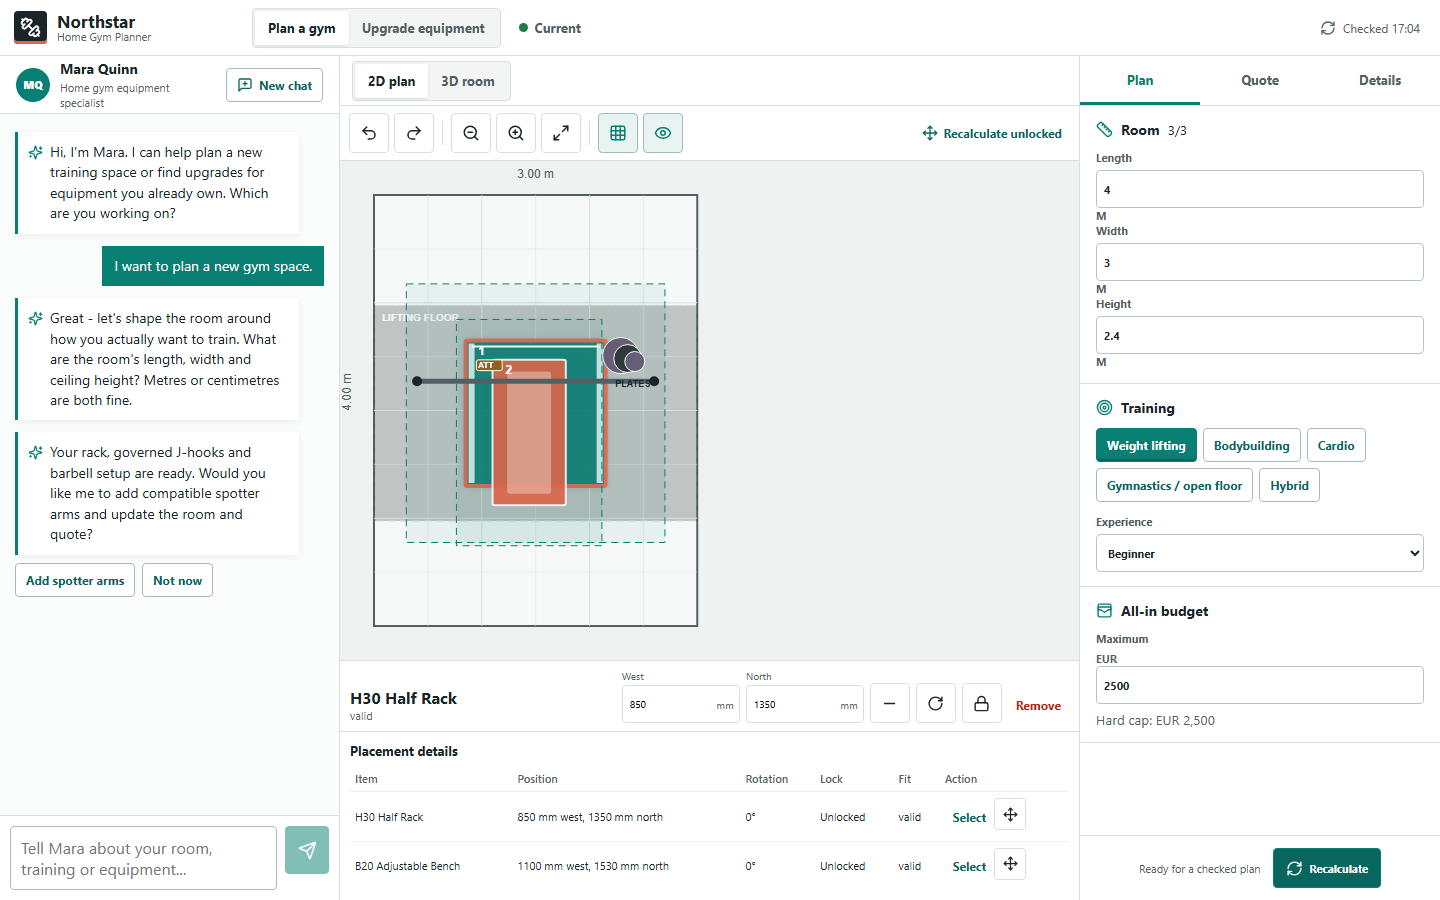
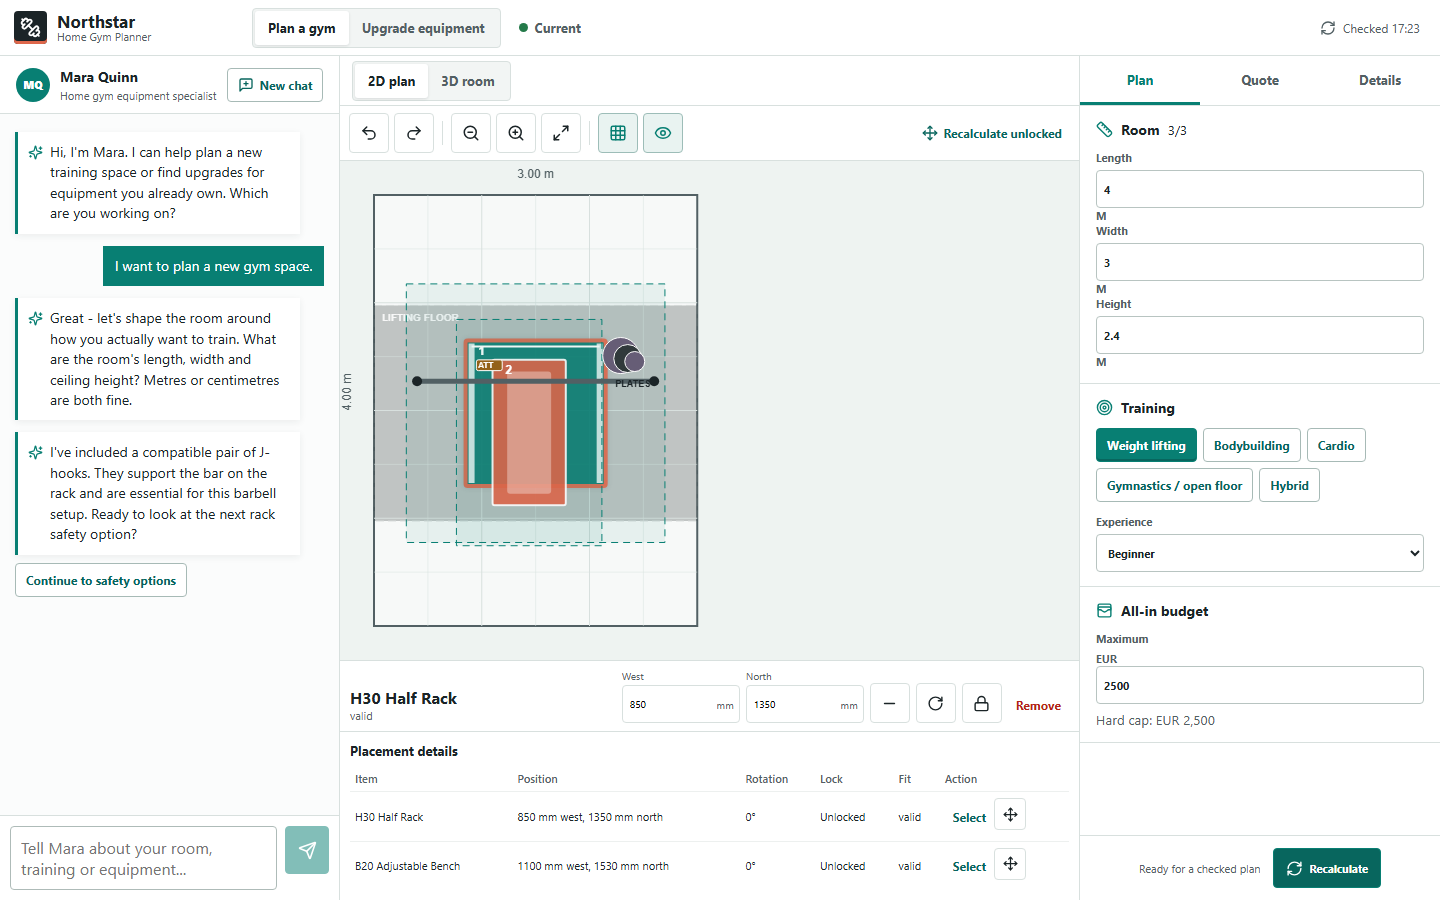
Refine rack safety flow and 3D accessories

Changed region(s): [[0.0, 0.4978, 0.1875, 0.6533], [0.0312, 0.0622, 0.2188, 0.1244], [0.0625, 0.28, 0.2188, 0.3111]]

diff --git a/v2-founder-led/app/src/components/Room3D.tsx b/v2-founder-led/app/src/components/Room3D.tsx
@@ -64,7 +64,7 @@ export function Room3D({ state, catalogue, selectedId, onSelect, onReturn2D }: P
       scene.add(object); selectable.push(object);
     }
     for (const item of deriveVisualInventory(state, catalogue)) {
-      const object = visualInventoryObject(item, selectedId === item.variant.variantId);
+      const object = visualInventoryObject(item, selectedId === item.variant.variantId, catalogue);
       object.userData.variantId = item.variant.variantId;
       object.traverse((child) => { child.userData.variantId = item.variant.variantId; });
       scene.add(object); selectable.push(object);
@@ -129,10 +129,16 @@ function equipmentObject(variant: Variant, placement: Placement, selected: boole
   const colour = selected ? "#de674b" : categoryColour[variant.category];
   if (variant.category === "rack") {
     const upright = .055; const y = height / 2;
-    [[upright, y, upright], [width - upright, y, upright], [upright, y, depth - upright], [width - upright, y, depth - upright]].forEach(([x, py, z]) => { const post = box(.06, height, .06, colour, .68); post.position.set(x, py, z); group.add(post); });
-    const topFront = box(width, .055, .055, colour, .68); topFront.position.set(width / 2, height - .04, .04); group.add(topFront);
-    const topRear = topFront.clone(); topRear.position.z = depth - .04; group.add(topRear);
-    const side = box(.055, .055, depth, colour, .68); side.position.set(.04, height - .04, depth / 2); group.add(side); const side2 = side.clone(); side2.position.x = width - .04; group.add(side2);
+    const twoPost = ["s-series", "f-series"].includes(variant.familyId);
+    const postPositions = twoPost
+      ? [[upright, y, depth - upright], [width - upright, y, depth - upright]]
+      : [[upright, y, upright], [width - upright, y, upright], [upright, y, depth - upright], [width - upright, y, depth - upright]];
+    postPositions.forEach(([x, py, z]) => { const post = box(.06, height, .06, colour, .68); post.position.set(x, py, z); group.add(post); });
+    const topRear = box(width, .055, .055, colour, .68); topRear.position.set(width / 2, height - .04, depth - .04); group.add(topRear);
+    if (!twoPost) {
+      const topFront = topRear.clone(); topFront.position.z = .04; group.add(topFront);
+      const side = box(.055, .055, depth, colour, .68); side.position.set(.04, height - .04, depth / 2); group.add(side); const side2 = side.clone(); side2.position.x = width - .04; group.add(side2);
+    }
   } else if (variant.category === "bench") {
     const pad = box(width * .72, .11, depth * .92, colour); pad.position.set(width / 2, height * .82, depth / 2); group.add(pad);
     const frame = box(.08, height * .72, depth * .65, "#313a3c", .55); frame.position.set(width / 2, height * .38, depth / 2); group.add(frame);
@@ -148,8 +154,18 @@ function equipmentObject(variant: Variant, placement: Placement, selected: boole
   } else if (["dumbbells", "kettlebell"].includes(variant.category)) {
     for (let index = 0; index < 4; index += 1) { const weight = box(width * .17, Math.min(.28, height), depth * .24, colour, .45); weight.position.set(width * (.18 + index * .21), Math.min(.16, height / 2), depth / 2); group.add(weight); }
   } else if (variant.category === "storage") {
-    const frame = box(width, height, depth, colour, .35); group.add(frame); frame.position.set(width / 2, height / 2, depth / 2);
-    const cut = box(width * .86, height * .72, depth * 1.02, "#f7f9f8"); cut.position.set(width / 2, height * .53, depth / 2); group.add(cut);
+    if (variant.variantId === "st10-storage-vertical") {
+      const baseX = box(width * .92, .06, .09, "#30393b", .6); baseX.position.set(width / 2, .03, depth / 2); group.add(baseX);
+      const baseZ = box(.09, .06, depth * .92, "#30393b", .6); baseZ.position.set(width / 2, .03, depth / 2); group.add(baseZ);
+      const upright = box(.09, height * .9, .09, colour, .68); upright.position.set(width / 2, height * .45 + .05, depth / 2); group.add(upright);
+      for (const y of [.55, .88, 1.16]) for (const side of [-1, 1]) {
+        const peg = new THREE.Mesh(new THREE.CylinderGeometry(.024, .024, width * .36, 16), new THREE.MeshStandardMaterial({ color: colour, roughness: .36, metalness: .7 }));
+        peg.rotation.z = Math.PI / 2; peg.position.set(width / 2 + side * width * .2, Math.min(y, height * .84), depth / 2); group.add(peg);
+      }
+    } else {
+      for (const x of [.045, width - .045]) for (const z of [.045, depth - .045]) { const post = box(.06, height, .06, colour, .55); post.position.set(x, height / 2, z); group.add(post); }
+      for (const y of [.08, height * .52, height - .08]) { const shelf = box(width, .06, depth, colour, .4); shelf.position.set(width / 2, y, depth / 2); group.add(shelf); }
+    }
   } else {
     const body = box(width, Math.max(.04, Math.min(height, .3)), depth, colour); body.position.set(width / 2, Math.max(.02, Math.min(height, .3) / 2), depth / 2); group.add(body);
   }
@@ -157,11 +173,15 @@ function equipmentObject(variant: Variant, placement: Placement, selected: boole
   return group;
 }
 
-function visualInventoryObject(item: VisualInventoryItem, selected: boolean) {
+function visualInventoryObject(item: VisualInventoryItem, selected: boolean, catalogue: Variant[]) {
   const group = new THREE.Group();
   const colour = selected ? "#de674b" : categoryColour[item.variant.category];
   const x = item.xMm / 1000;
   const z = item.zMm / 1000;
+  const parent = item.parentVariantId ? catalogue.find((variant) => variant.variantId === item.parentVariantId) : undefined;
+  const parentRotated = item.rotationDeg === 90;
+  const parentWidth = parent ? (parentRotated ? parent.geometry.lengthMm : parent.geometry.widthMm) / 1000 : 0;
+  const parentDepth = parent ? (parentRotated ? parent.geometry.widthMm : parent.geometry.lengthMm) / 1000 : 0;
 
   if (item.mode === "flooring") {
     const width = item.variant.geometry.widthMm / 1000;
@@ -223,8 +243,17 @@ function visualInventoryObject(item: VisualInventoryItem, selected: boolean) {
         const strap = box(.012, .72, .012, "#30393b", .5); strap.position.set(side * .22, 1.58, .12); group.add(strap);
         const ring = new THREE.Mesh(new THREE.TorusGeometry(.09, .013, 10, 28), new THREE.MeshStandardMaterial({ color: colour, roughness: .62 })); ring.position.set(side * .22, 1.18, .12); group.add(ring);
       }
-    } else if (item.variant.variantId === "a12-spotter-arms") {
-      for (const side of [-1, 1]) { const arm = box(.07, .09, .62, colour, .65); arm.position.set(side * .42, .82, .28); group.add(arm); }
+    } else if (item.variant.variantId === "a12-spotter-arms" && parent?.category === "rack") {
+      const fourPost = ["h-series", "p-series"].includes(parent.familyId);
+      const inset = .055;
+      const armDepth = fourPost ? Math.max(.3, parentDepth - inset * 2) : Math.min(.65, Math.max(.45, parentDepth * .72));
+      const centreZ = fourPost ? parentDepth / 2 : Math.max(inset + armDepth / 2, parentDepth - inset - armDepth / 2);
+      for (const xPosition of [inset, parentWidth - inset]) {
+        const arm = box(.075, .09, armDepth, colour, .65); arm.position.set(xPosition, .82, centreZ); group.add(arm);
+        const lip = box(.075, .16, .08, colour, .65); lip.position.set(xPosition, .88, fourPost ? inset : Math.max(inset, centreZ - armDepth / 2)); group.add(lip);
+      }
+      group.position.set(x, 0, z);
+      return group;
     } else if (item.variant.variantId === "a10-dip-attachment") {
       for (const side of [-1, 1]) { const handle = box(.04, .04, .52, colour, .7); handle.position.set(side * .24, 1.15, .3); group.add(handle); }
     } else {

diff --git a/v2-founder-led/app/src/components/ChatPane.tsx b/v2-founder-led/app/src/components/ChatPane.tsx
@@ -74,8 +74,8 @@ export function ChatPane({ state, catalogue, messages, busy, thinkingLabel, pend
               <p>{refinement.prompt}</p>
             </div>
             <div className="quick-choices" aria-label="Optional plan refinement">
-              <button type="button" onClick={() => onAddRefinement(refinement.query, refinement.acceptMessage)}>{refinement.acceptLabel}</button>
-              <button type="button" onClick={() => onSkipRefinement(refinement.skipMessage)}>Not now</button>
+              <button type="button" onClick={() => refinement.acknowledgeOnly ? onSkipRefinement(refinement.acceptMessage) : onAddRefinement(refinement.query, refinement.acceptMessage)}>{refinement.acceptLabel}</button>
+              {!refinement.acknowledgeOnly && <button type="button" onClick={() => onSkipRefinement(refinement.skipMessage)}>Not now</button>}
             </div>
           </div>
         )}
@@ -157,6 +157,7 @@ interface RefinementStep {
   acceptLabel: string;
   acceptMessage: string;
   skipMessage: string;
+  acknowledgeOnly?: boolean;
 }
 
 function postBuildRefinement(state: PlanState, catalogue: Variant[], messages: ChatMessage[]): RefinementStep | null {
@@ -167,13 +168,26 @@ function postBuildRefinement(state: PlanState, catalogue: Variant[], messages: C
   const hasBarbell = selected.some((item) => item.category === "barbell");
   const hasPlates = selected.some((item) => item.category === "plates");
   const rack = selected.find((item) => item.category === "rack");
+  const hasJHooks = selected.some((item) => item.variantId === "a08-j-hooks");
+  const jHooksExplained = userReplies.some((text) => /included j-hooks/.test(text));
   const hasSafetySupport = selected.some((item) => ["a12-spotter-arms", "a14-safety-straps"].includes(item.variantId));
   const safetyHandled = hasSafetySupport || userReplies.some((text) => /(?:add|no|skip|not now).*spotter/.test(text));
+
+  if (hasRack && hasBarbell && hasJHooks && !jHooksExplained) {
+    return {
+      prompt: "I've included a compatible pair of J-hooks. They support the bar on the rack and are essential for this barbell setup. Ready to look at the next rack safety option?",
+      query: "",
+      acceptLabel: "Continue to safety options",
+      acceptMessage: "I understand the included J-hooks. Continue to rack safety options.",
+      skipMessage: "",
+      acknowledgeOnly: true,
+    };
+  }
 
   const spotterHosts = new Set(["h30-half-rack-entry", "h40-half-rack-pro", "p40-power-rack-compact", "p50-power-rack-standard", "f20-folding-rack-compact", "f30-folding-rack-pro"]);
   if (hasRack && hasBarbell && rack && spotterHosts.has(rack.variantId) && !safetyHandled) {
     return {
-      prompt: "Your rack, governed J-hooks and barbell setup are ready. Would you like me to add compatible spotter arms and update the room and quote?",
+      prompt: "With the bar supported on the included J-hooks, would you like me to add compatible spotter arms and update the room and quote?",
       query: "compatible spotter arms",
       acceptLabel: "Add spotter arms",
       acceptMessage: "Yes, add compatible spotter arms to the plan.",

diff --git a/v2-founder-led/app/tests/e2e/planner.spec.ts b/v2-founder-led/app/tests/e2e/planner.spec.ts
@@ -89,6 +89,8 @@ test("Mara refines a checked lifting plan one accessory at a time", async ({ pag
   await page.goto("/");
   await fillReadyStrengthPlan(page, "new_space", "5000");
   await expect(page.locator(".equipment-row").filter({ hasText: "J-Hook" })).toBeVisible();
+  await expect(page.getByText(/included a compatible pair of J-hooks/)).toBeVisible();
+  await page.getByRole("button", { name: "Continue to safety options" }).click();
   await Promise.all([
     page.waitForResponse((response) => response.request().method() === "POST" && response.url().includes("/items/recommended") && response.ok()),
     page.getByRole("button", { name: "Add spotter arms" }).click(),
